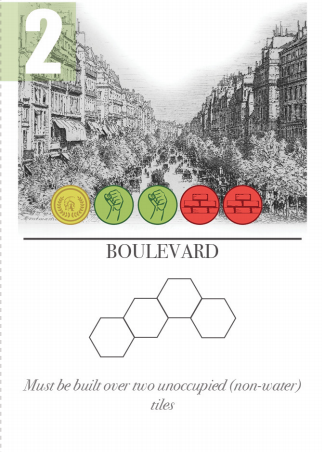
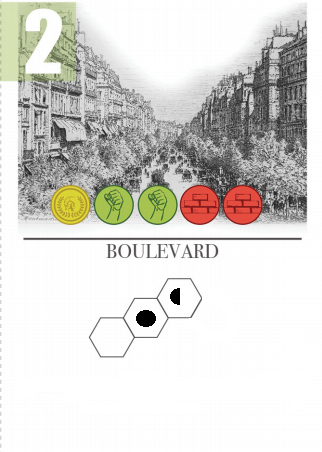
add some stuffs

diff --git a/server/startingStateGeneration.js b/server/startingStateGeneration.js
@@ -16,7 +16,7 @@
 
       //infrastructure
       [ 
-      {'name': 'Boulevard',  'type': 'Infrastructure',               'bm': 1, 'c': 1, 'l': 2, '?': 0, 'limit': 5, 'vp': 2},
+      {'name': 'Boulevard',  'type': 'Infrastructure',               'bm': 2, 'c': 2, 'l': 0, '?': 0, 'limit': 5, 'vp': 2},
       {'name': 'Tunnel',     'type': 'Infrastructure',               'bm': 1, 'c': 1, 'l': 3, '?': 0, 'limit': 5, 'vp': 3},
       {'name': 'Prison',     'type': 'Infrastructure',               'bm': 0, 'c': 2, 'l': 2, '?': 0, 'limit': 5, 'vp': 2},
       {'name': 'Tramway',    'type': 'Infrastructure',               'bm': 3, 'c': 0, 'l': 0, '?': 0, 'limit': 5, 'vp': 2},
@@ -34,40 +34,47 @@
 
       //commercial
       [
-      {'name': 'Tenement',   'type': 'Commercial',                   'bm': 0, 'c': 0, 'l': 0, '?': 5, 'limit': 4, 'vp': 3},
-      {'name': 'Bazaar',     'type': 'Commercial',                   'bm': 0, 'c': 0, 'l': 0, '?': 6, 'limit': 5, 'vp': 3},
-      {'name': 'Refinery',   'type': 'Commercial',                   'bm': 0, 'c': 0, 'l': 0, '?': 3, 'limit': 5, 'vp': 1}, 
-      {'name': 'Casino',     'type': 'Commercial',                   'bm': 0, 'c': 0, 'l': 0, '?': 4, 'limit': 5, 'vp': 0},
-      {'name': 'Watchtower', 'type': 'Commercial',                   'bm': 0, 'c': 2, 'l': 3, '?': 0, 'limit': 5, 'vp': 3}
+      // {'name': 'Tenement',   'type': 'Commercial',                   'bm': 0, 'c': 0, 'l': 0, '?': 5, 'limit': 5, 'vp': 3},
+      // {'name': 'Bazaar',     'type': 'Commercial',                   'bm': 0, 'c': 0, 'l': 0, '?': 6, 'limit': 5, 'vp': 3},
+      // {'name': 'Refinery',   'type': 'Commercial',                   'bm': 0, 'c': 0, 'l': 0, '?': 3, 'limit': 5, 'vp': 1}, 
+      // {'name': 'Casino',     'type': 'Commercial',                   'bm': 0, 'c': 0, 'l': 0, '?': 4, 'limit': 5, 'vp': 0},
+      // {'name': 'Watchtower', 'type': 'Commercial',                   'bm': 0, 'c': 2, 'l': 3, '?': 0, 'limit': 5, 'vp': 3}
+      {'name': 'Loan Office','type': 'Commercial',                   'bm': 0, 'c': 0, 'l': 0, '?': 2, 'limit': 5, 'vp': -1}
       ],
 
       //civic
       [
+      {'name': 'Shipyard',   'type': 'Civic',                        'bm': 1, 'c': 0, 'l': 3, '?': 0, 'limit': 5, 'vp': 2},
       {'name': 'Tax House',  'type': 'Civic',                        'bm': 0, 'c': 3, 'l': 2, '?': 0, 'limit': 5, 'vp': 2},
       {'name': 'Cemetery',   'type': 'Civic',                        'bm': 3, 'c': 2, 'l': 0, '?': 0, 'limit': 5, 'vp': 2},
-      {'name': 'Shipyard',   'type': 'Civic',                        'bm': 1, 'c': 0, 'l': 3, '?': 0, 'limit': 5, 'vp': 2},
       {'name': 'Sewers',     'type': 'Civic',                        'bm': 2, 'c': 0, 'l': 3, '?': 0, 'limit': 5, 'vp': 2},
       {'name': 'Monument',   'type': 'Civic',                        'bm': 3, 'c': 1, 'l': 1, '?': 0, 'limit': 5, 'vp': 2}
       ],
 
+
+      //default
+      [
+      {'name': 'Housing Unit',             'type': 'Default',       'bm': 0, 'c': 0, 'l': 0, '?': 3, 'limit': 8, 'vp': 1}
+      ],
+
       //new cultural
       [
-      {'name': 'Place Charles de Gaulle',   'type': 'NewCultural',   'bm': 3, 'c': 1, 'l': 2, '?': 0, 'limit': 1, 'vp': 8},
-      {'name': 'Parc de Buttes Chaumont',   'type': 'NewCultural',   'bm': 1, 'c': 2, 'l': 3, '?': 0, 'limit': 1, 'vp': 7},
+      // {'name': 'Place Charles de Gaulle',   'type': 'NewCultural',   'bm': 3, 'c': 1, 'l': 2, '?': 0, 'limit': 1, 'vp': 8},
+      // {'name': 'Parc de Buttes Chaumont',   'type': 'NewCultural',   'bm': 1, 'c': 2, 'l': 3, '?': 0, 'limit': 1, 'vp': 7},
       {'name': 'Rue de Rivoli',             'type': 'NewCultural',   'bm': 3, 'c': 2, 'l': 1, '?': 0, 'limit': 1, 'vp': 6},
-      // {'name': 'The City Hall',             'type': 'NewCultural',   'bm': 1, 'c': 3, 'l': 1, '?': 0, 'limit': 1, 'vp': 0},
-      {'name': 'The Embassy',               'type': 'NewCultural',   'bm': 2, 'c': 3, 'l': 2, '?': 0, 'limit': 1, 'vp': 0},
+      // {'name': 'The Embassy',               'type': 'NewCultural',   'bm': 2, 'c': 3, 'l': 2, '?': 0, 'limit': 1, 'vp': 0},
       {'name': 'Tour Eiffel',               'type': 'NewCultural',   'bm': 1, 'c': 1, 'l': 1, '?': 0, 'limit': 1, 'vp': 6},
-      {'name': 'Bois de Vincennes',         'type': 'NewCultural',   'bm': 2, 'c': 1, 'l': 2, '?': 0, 'limit': 1, 'vp': 0},
-      {'name': 'Waterworks',                'type': 'NewCultural',   'bm': 2, 'c': 3, 'l': 2, '?': 0, 'limit': 1, 'vp': 0},
-      {'name': 'Musee du Louvre',           'type': 'NewCultural',   'bm': 2, 'c': 3, 'l': 1, '?': 0, 'limit': 1, 'vp': 0},
-      {'name': 'Guild Hall',                'type': 'NewCultural',   'bm': 2, 'c': 1, 'l': 2, '?': 0, 'limit': 1, 'vp': 0},
-      {'name': 'Musee du Orsay',            'type': 'NewCultural',   'bm': 1, 'c': 2, 'l': 2, '?': 0, 'limit': 1, 'vp': 2},
-      {'name': 'Le Havre',                  'type': 'NewCultural',   'bm': 0, 'c': 3, 'l': 3, '?': 0, 'limit': 1, 'vp': 0}
+      // {'name': 'Bois de Vincennes',         'type': 'NewCultural',   'bm': 2, 'c': 1, 'l': 2, '?': 0, 'limit': 1, 'vp': 0},
+      // {'name': 'Waterworks',                'type': 'NewCultural',   'bm': 2, 'c': 3, 'l': 2, '?': 0, 'limit': 1, 'vp': 0},
+      // {'name': 'Musee du Louvre',           'type': 'NewCultural',   'bm': 2, 'c': 3, 'l': 1, '?': 0, 'limit': 1, 'vp': 0},
+      // {'name': 'Guild Hall',                'type': 'NewCultural',   'bm': 2, 'c': 1, 'l': 2, '?': 0, 'limit': 1, 'vp': 0},
+      // {'name': 'Musee du Orsay',            'type': 'NewCultural',   'bm': 1, 'c': 2, 'l': 2, '?': 0, 'limit': 1, 'vp': 2},
+      // {'name': 'Le Havre',                  'type': 'NewCultural',   'bm': 0, 'c': 3, 'l': 3, '?': 0, 'limit': 1, 'vp': 0},
+      {'name': 'The Grand Canal',           'type': 'NewCultural',   'bm': 2, 'c': 3, 'l': 2, '?': 0, 'limit': 1, 'vp': 0},
       ]
     ]
 
-    for (i=0; i<4; i++) {
+    for (i=0; i<5; i++) {
       var x = Math.floor(Math.random() * buildings[i].length)
       results.push(buildings[i][x])
       buildings[i].splice(x, 1)

diff --git a/client/buildingValidation.js b/client/buildingValidation.js
@@ -58,6 +58,11 @@ function validateVariableCost(building, variableBuildingCost, casinoSteal, myRes
       return false
     }
   }
+  if (buildingName == "Loan Office") {
+    if ((casinoSteal.bm != 3 && casinoSteal.l != 3 && casinoSteal.c != 3) || (casinoSteal.bm + casinoSteal.c + casinoSteal.l != 3)){
+      return false
+    }
+  }
   
   return myResources.bm >= variableBuildingCost.bm + buildingBMs
       && myResources.l >= variableBuildingCost.l + buildingCs
@@ -310,7 +315,7 @@ function boulevard(coords, move, board, startingPlayer) {
     } else {
       var middleOn = builtOn([middle], move, board, startingPlayer)
       var outerOn = builtOn(outer, move, board, startingPlayer)
-      return middleOn.friendly == 1 && outerOn.empty == 2 && ShapeUtils.checkShape3Line(coords)
+      return middleOn.friendly == 1 && (outerOn.empty == 2 || (outerOn.friendly == 1 && outerOn.empty == 1)) && ShapeUtils.checkShape3Line(coords)
     }
   }
 }
@@ -342,7 +347,7 @@ function tunnelHelper(buildings, startingPlayer, coords, extraArray) {
       }
     }
   }
-  if (adjacentEnemyBuildings.size != 1) {
+  if (adjacentEnemyBuildings.size == 0) {
     return false
   }
 
@@ -509,6 +514,14 @@ function canal(coords, move, board, startingPlayer) {
     }
   }
 }
+function theGrandCanal(coords, move, board, startingPlayer) {
+  if (coords.length != 5) {
+    return false
+  }
+  var ons = builtOn(coords, move, board, startingPlayer)
+  return ons.friendly > 0 && ons.water > 0 && ons.enemy == 0
+    
+}
 function lock(coords, move, board, startingPlayer) {
   var on = builtOn(coords, move, board, startingPlayer)
   return on.friendly == 4 && ShapeUtils.checkShapeDiamond(coords)
@@ -589,11 +602,19 @@ function bazaar(coords, move, board, startingPlayer) {
   var on = builtOn(coords, move, board, startingPlayer)
   return on.friendly == 3 && ShapeUtils.checkShapeV(coords)
 }
+function housingUnit(coords, move, board, startingPlayer) {
+  var on = builtOn(coords, move, board, startingPlayer)
+  return on.friendly == 2 && ShapeUtils.checkShapeDouble(coords)
+}
 function refinery(coords, move, board, startingPlayer) {
   var on = builtOn(coords, move, board, startingPlayer)
   return on.friendly == 2 && ShapeUtils.checkShapeDouble(coords)
 }
 function casino(coords, move, board, startingPlayer) {
+  var on = builtOn(coords, move, board, startingPlayer)
+  return on.friendly == 3 && ShapeUtils.checkShapeTriangle(coords)
+}
+function loanOffice(coords, move, board, startingPlayer) {
   var on = builtOn(coords, move, board, startingPlayer)
   return on.friendly == 3 && ShapeUtils.checkShapeTriangle(coords)
 }
@@ -760,6 +781,7 @@ var buildingData = {
   'Refinery': {'validation_function': refinery, 'length': 2},
   'Casino': {'validation_function': casino, 'length': 3},
   'Watchtower': {'validation_function': watchTower, 'length': 1},
+  'Loan Office': {'validation_function': loanOffice, 'length': 3},
 
   //civic
   'Tax House': {'validation_function': taxHouse, 'length': 3},
@@ -767,6 +789,9 @@ var buildingData = {
   'Shipyard': {'validation_function': shipyard, 'length': 3},
   'Sewers': {'validation_function': sewers, 'length': 3},
   'Monument': {'validation_function': monument, 'length': 2},
+
+  //default
+  'Housing Unit': {'validation_function': housingUnit, 'length': 2},
 
   //new cultural
   'Place Charles de Gaulle': {'validation_function': placeCharlesDeGaulle, 'length': 7}, 
@@ -780,5 +805,6 @@ var buildingData = {
   'Musee du Louvre': {'validation_function': museeDuLouvre, 'length': 3},
   'Guild Hall': {'validation_function': guildHall, 'length': 6},
   'Musee du Orsay': {'validation_function': museeDuOrsay, 'length': 2},
-  'Le Havre': {'validation_function': leHavre, 'length': 4}
+  'Le Havre': {'validation_function': leHavre, 'length': 4},
+  'The Grand Canal': {'validation_function': theGrandCanal, 'length': 5}
 }

diff --git a/client/index.js b/client/index.js
@@ -258,6 +258,9 @@ function displayShop() {
       if (index==4) {
         datum.style.backgroundColor='#7ad15e'
       }
+      if (index==5) {
+        datum.style.backgroundColor='lightgrey'
+      }
       row.appendChild(datum)
       index += 1
   	}
@@ -282,9 +285,15 @@ function onClickShopRow(row) {
  		MY_MOVE['building'] = undefined
   } else { // Select Shop Item
     if (BuildingValidation.buildingAvailable(buildingName, SHOP)) {
-      if (buildingName == "Casino" || buildingName == "Tenement" || buildingName == "Refinery" || buildingName == "Bazaar") {
+      if (
+          buildingName == "Casino" ||
+          buildingName == "Tenement" ||
+          buildingName == "Refinery" ||
+          buildingName == "Bazaar" ||
+          buildingName == "Housing Unit" ||
+          buildingName == "Loan Office") {
         document.getElementById('money_form_input').style.display = "block"
-        if (buildingName == "Casino") {
+        if (buildingName == "Casino" || buildingName == "Loan Office") {
           document.getElementById('casino_steal_input').style.display = "block"
         }
       }  

diff --git a/server/moveProcessor.js b/server/moveProcessor.js
@@ -188,6 +188,17 @@
                 game_state.p2_resources.c += casino_steal.c
               }
             }
+            if (game_state.shop[i].name == "Loan Office") {
+              if (active_player_index == 0) {
+                game_state.p1_resources.bm += casino_steal.bm
+                game_state.p1_resources.l += casino_steal.l
+                game_state.p1_resources.c += casino_steal.c
+              } else {
+                game_state.p2_resources.bm += casino_steal.bm
+                game_state.p2_resources.l += casino_steal.l
+                game_state.p2_resources.c += casino_steal.c
+              }
+            }
             return true
           } else {
             return false

diff --git a/client/index.html b/client/index.html
@@ -43,9 +43,9 @@
 				    Pay Ls: <input type="text" id="money_select_l" name="l">
 				  </div>
 				  <div id='casino_steal_input'>
-				    Steal BMs: <input type="text" id="money_steal_bm" name="bm"><br>
-				    Steal Cs: <input type="text" id="money_steal_c" name="c"><br>
-				    Steal Ls: <input type="text" id="money_steal_l" name="l">
+				    Take BMs: <input type="text" id="money_steal_bm" name="bm"><br>
+				    Take Cs: <input type="text" id="money_steal_c" name="c"><br>
+				    Take Ls: <input type="text" id="money_steal_l" name="l">
 				  </div>
 				</div>
 				<div id=not_valid_player_title></div>

diff --git a/app.js b/app.js
@@ -18,7 +18,7 @@ var ACTIVE_PLAYER_INDEX = 0
 var PLAYER_IDS = []
 
 
-var startState = startingStateGeneration.generateBoard(9, 12, 18)
+var startState = startingStateGeneration.generateBoard(9, 12, 20)
 var GAME_STATE = {
   'board': startState[0],
   'buildings': [],
